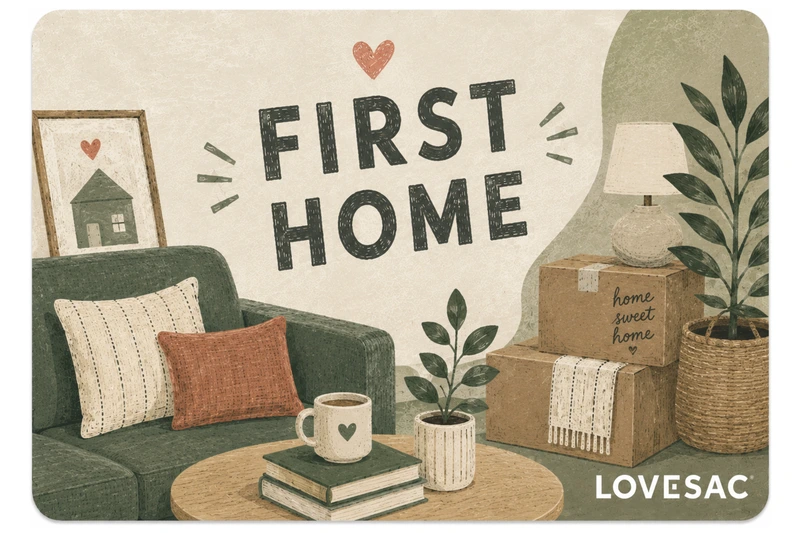
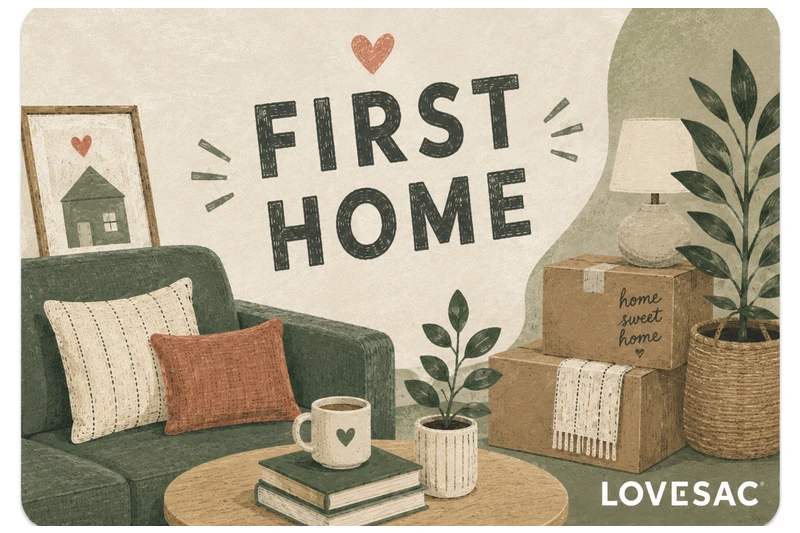
Update wedding gift card to "Happily Ever After" design
Replaces the wedding concept art with a new design (vase of flowers,
intertwined rings, leaf branch) and updates the alt text to match. Also
includes the border-margin fixes for the Mother's Day, First Home, and
New Baby cards from the previous pass, cropped with the same cover-fit
process for consistency.

Changed region(s): [[0.0, 0.0, 1.0, 0.9906], [0.6875, 0.2402, 0.7188, 0.3302], [0.6875, 0.1801, 0.7188, 0.2101]]

diff --git a/work/lovesac-case-study-2.html b/work/lovesac-case-study-2.html
@@ -1182,7 +1182,7 @@
       </div>
       <div class="card-compare-col">
         <div class="nav-label">Wedding</div>
-        <div class="card-frame gift"><img src="/images/lovesac-gift-card-wedding.webp" width="800" height="533" loading="lazy" decoding="async" alt="In-store Lovesac gift card concept for weddings, illustrated with a tiered cake, bouquet, champagne flutes, and wedding rings in a soft watercolor style."></div>
+        <div class="card-frame gift"><img src="/images/lovesac-gift-card-wedding.webp" width="800" height="533" loading="lazy" decoding="async" alt="In-store Lovesac gift card concept for weddings reading 'Happily Ever After,' illustrated with a vase of flowers, intertwined wedding rings with a diamond, and a leaf branch in a soft watercolor style."></div>
       </div>
       <div class="card-compare-col">
         <div class="nav-label">Graduation</div>
